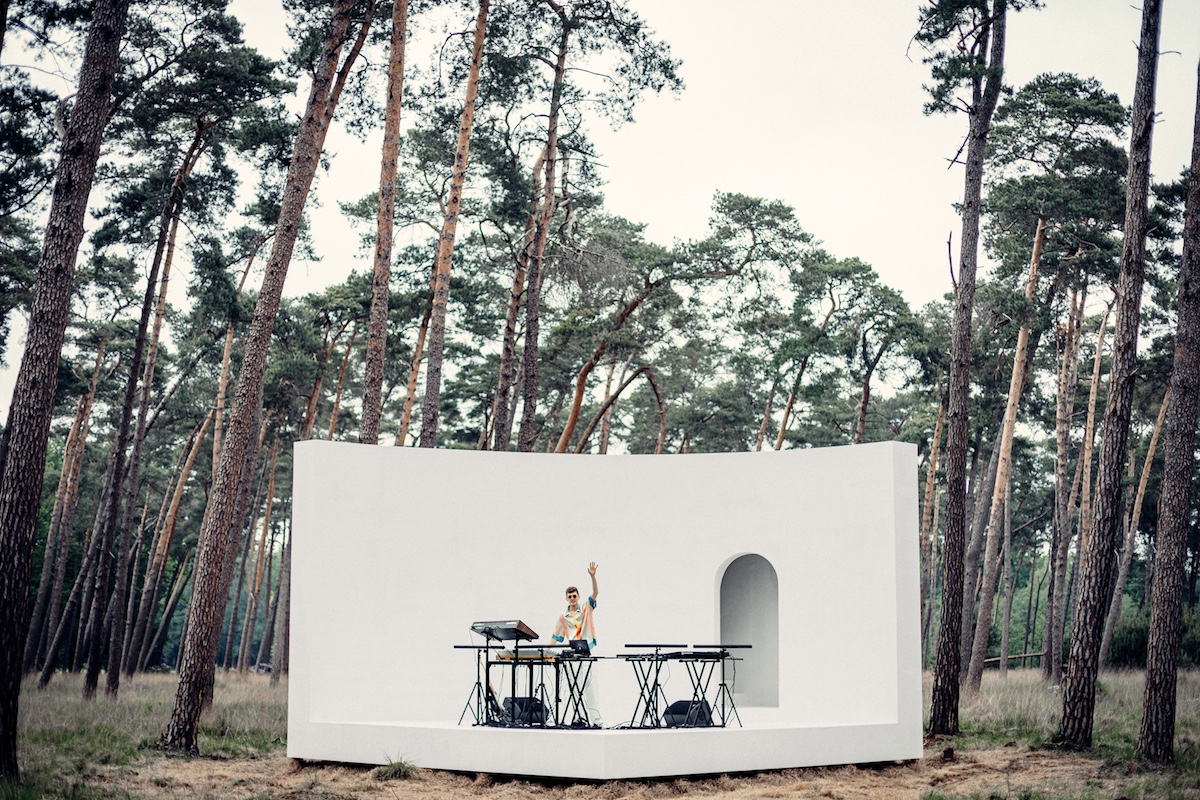
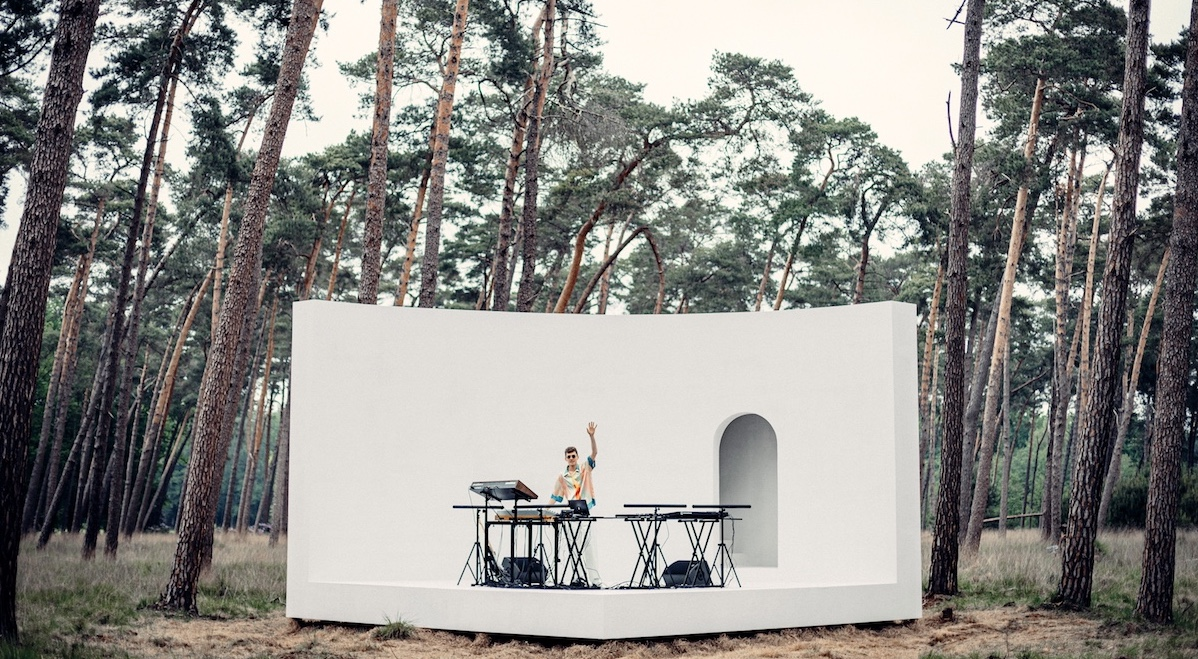
changed places of certains pictures

diff --git a/index.html b/index.html
@@ -18,14 +18,14 @@
       <img class="" src="images/2.jpg" alt="ERASED">
       <img class="" src="images/3.jpg" alt="ERASED">
       <img class="" src="images/4.jpg" alt="ERASED">
-      <img class="" src="images/5.jpg" alt="ERASED">
+      <img id="pictureFive" class="" src="images/5.jpg" alt="ERASED">
       <img class="" src="images/6.jpg" alt="ERASED">
       <img class="" src="images/7.jpg" alt="ERASED">
-      <img class="" src="images/8.jpg" alt="ERASED">
+      <img id="pictureEight" class="" src="images/8.jpg" alt="ERASED">
       <img class="" src="images/9.jpg" alt="ERASED">
       <img class="" src="images/10.jpg" alt="ERASED">
       <img class="" src="images/11.jpg" alt="ERASED">
-      <img class="" src="images/12.jpg" alt="ERASED">
+      <img id="pictureTwelve" class="" src="images/12.jpg" alt="ERASED">
       <img class="" src="images/13.jpg" alt="ERASED">
 
       <div class="container">
@@ -109,7 +109,7 @@
           changeIm();
           NameToHours();
           // This line should have a function that update every second the time during 5sec then stop
-          await sleep(2000);
+          await sleep(1900);
           UpdateTime();
           await sleep(5000);
           changeIm();
@@ -122,7 +122,7 @@
       flipLetters();
 
 
-      // Resize the vh
+      // Resize the vh for mobile
       const appHeight = () => {
         const vh = window.innerHeight * 0.01;
         document.documentElement.style.setProperty('--vh', `${vh}px`);

diff --git a/css/style.css b/css/style.css
@@ -151,6 +151,20 @@ img {
     height: calc(var(--vh, 1vh) * 97.15);
     min-height: calc(var(--vh, 1vh) * 97.15);
   }
+
+  #pictureFive {
+    width: 250vw;
+  }
+
+  #pictureEight {
+    width: 167vw;
+  }
+
+  #pictureTwelve {
+    width: 250vw;
+  }
+
+
 }
 
 @media (orientation: landscape) {
